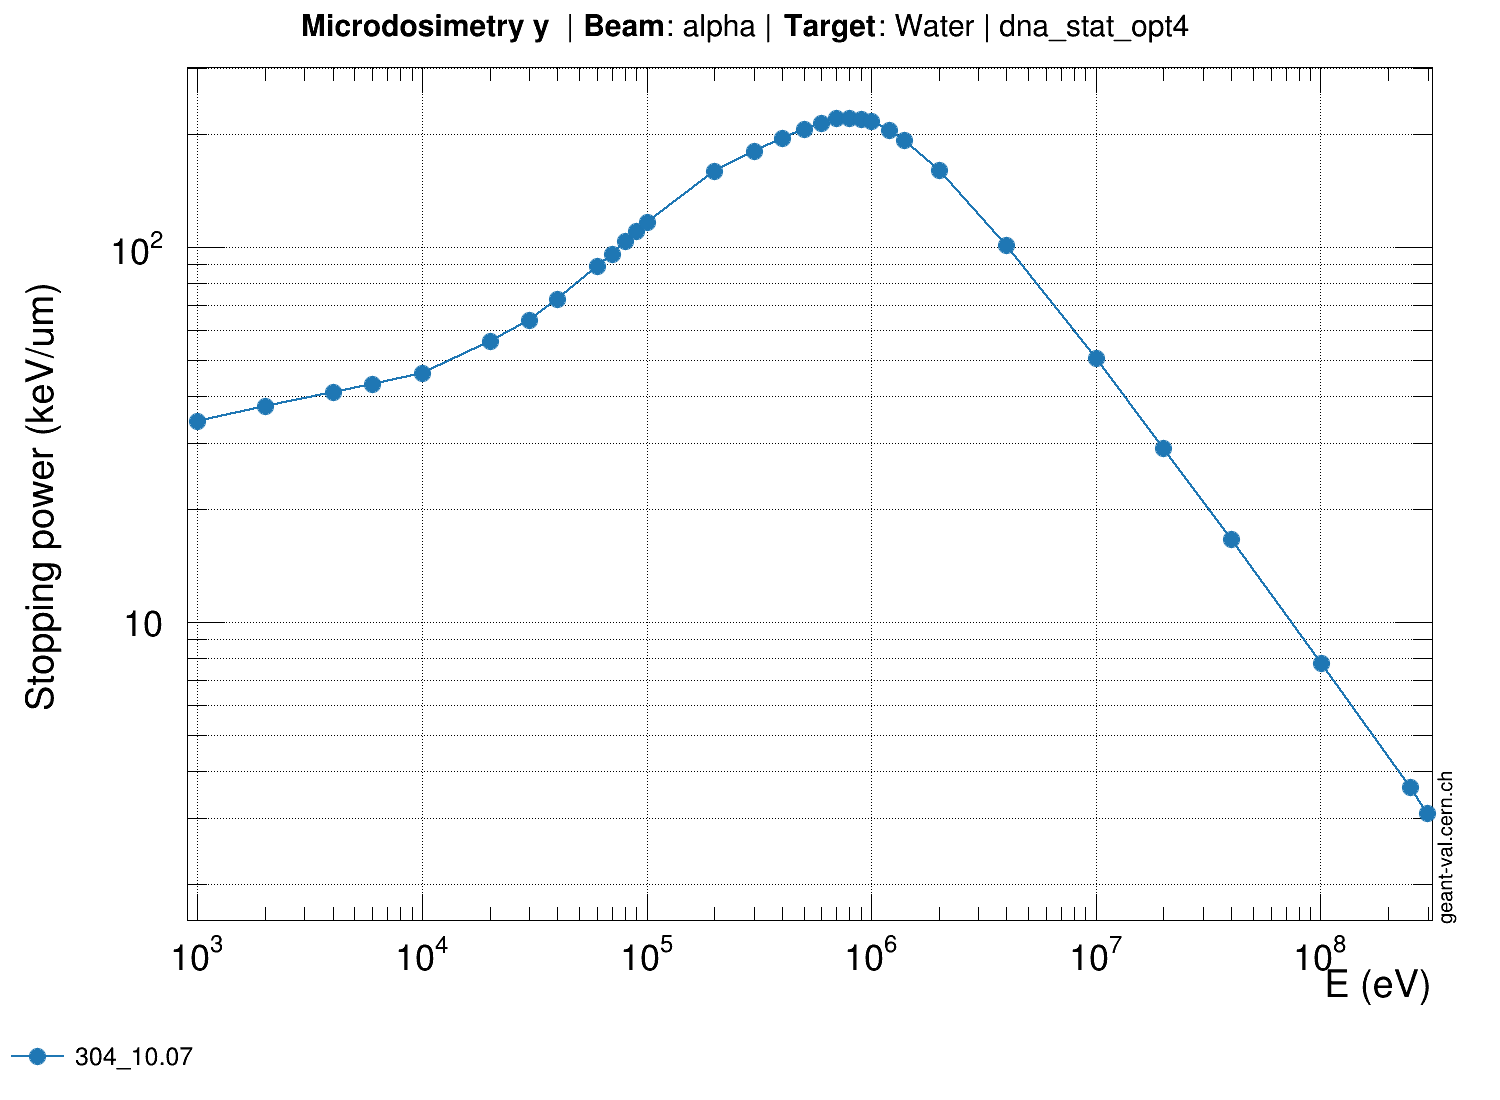
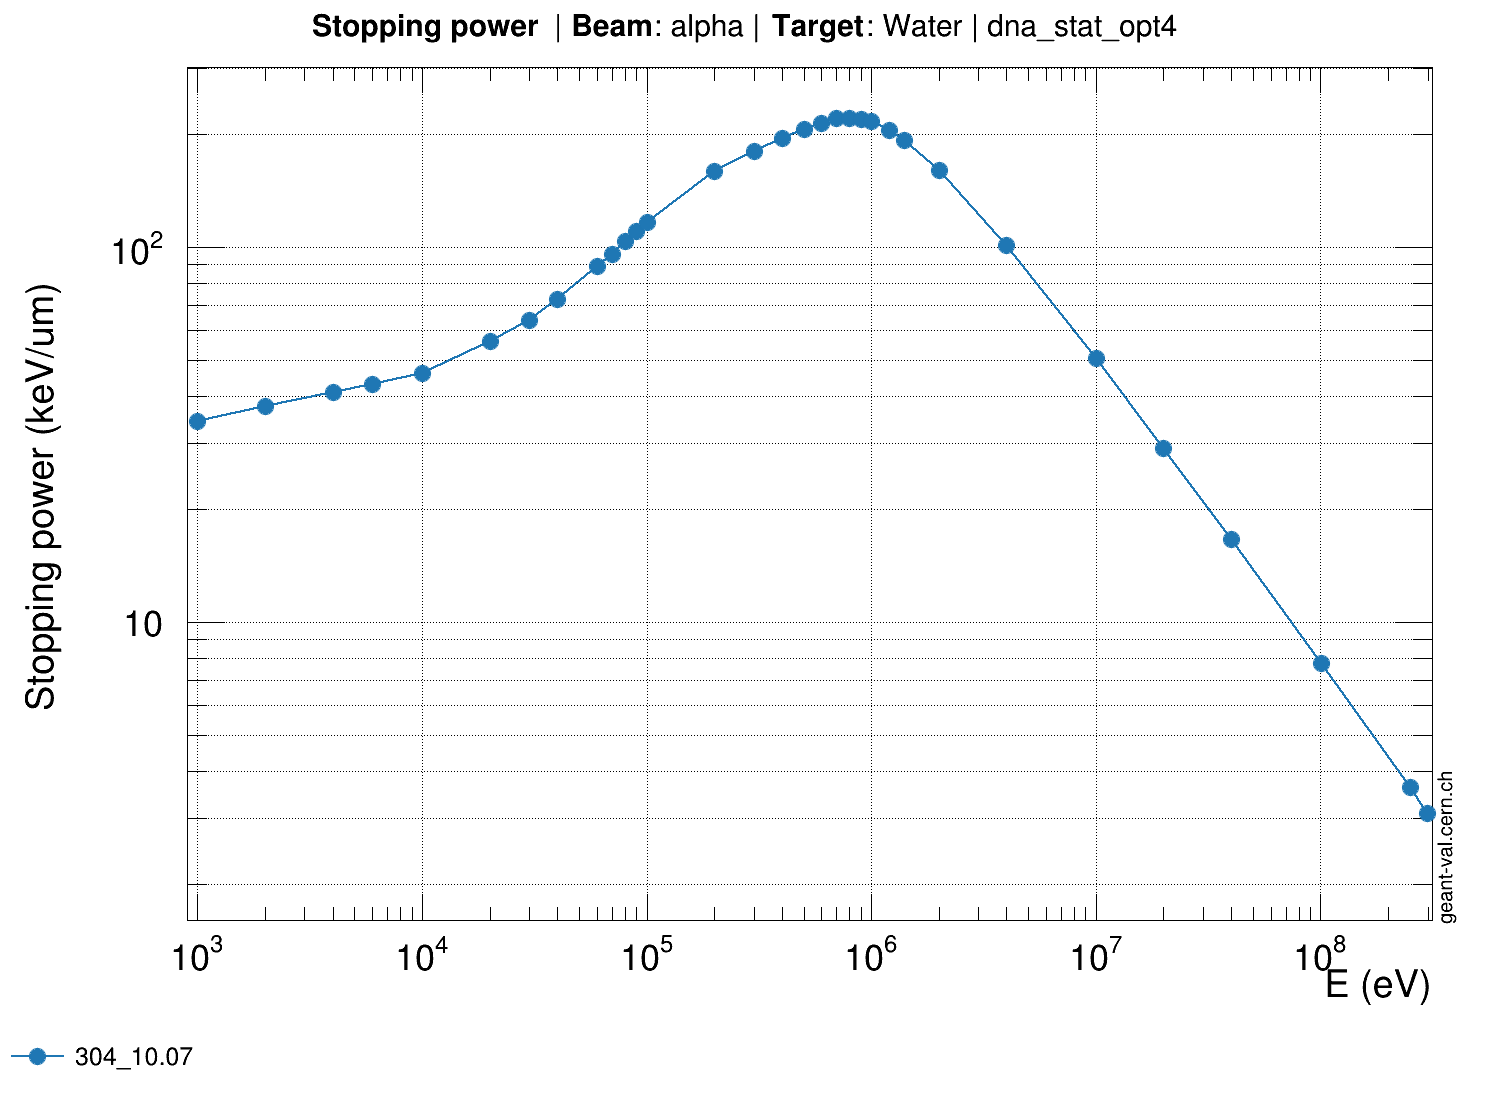
spower/alpha.conf/304_10.07 : lun. mars 27 11:52:57 CEST 2023

Changed region(s): [[0.184, 0.0, 0.7973, 0.0618]]

diff --git a/assets/OUTPUTJSON/geant4/304_10.07/x86_64/spower/alpha.conf.c b/assets/OUTPUTJSON/geant4/304_10.07/x86_64/spower/alpha.conf.c
@@ -286,3 +286,147 @@ double gvp_id-1_yerrors[32] = {
   0,
   0
 };
+// Tool:               GEANT4
+// Version:            304_10.07
+// Model:              dna_stat_opt4
+// Observable:         stopping power
+// Target:             Water
+// Beam Particle:      alpha
+// Secondary Particle: None
+
+double gvp_id-1_x[32] = {
+  1000,
+  2000,
+  4000,
+  6000,
+  10000,
+  20000,
+  30000,
+  40000,
+  60000,
+  70000,
+  80000,
+  90000,
+  100000,
+  200000,
+  300000,
+  400000,
+  500000,
+  600000,
+  700000,
+  800000,
+  900000,
+  1e+06,
+  1.2e+06,
+  1.4e+06,
+  2e+06,
+  4e+06,
+  1e+07,
+  2e+07,
+  4e+07,
+  1.01e+08,
+  2.5e+08,
+  2.99e+08
+};
+double gvp_id-1_y[32] = {
+  34.4107,
+  37.6174,
+  40.975,
+  43.1359,
+  46.1481,
+  55.9598,
+  63.9211,
+  72.4386,
+  88.8021,
+  95.6552,
+  103.792,
+  110.48,
+  116.535,
+  159.535,
+  180.635,
+  195.389,
+  206.578,
+  214.307,
+  220.243,
+  220.589,
+  219.859,
+  216.731,
+  205.215,
+  193.187,
+  160.177,
+  100.885,
+  50.4874,
+  29.1298,
+  16.6638,
+  7.76518,
+  3.62075,
+  3.08867
+};
+double gvp_id-1_xerrors[32] = {
+  0,
+  0,
+  0,
+  0,
+  0,
+  0,
+  0,
+  0,
+  0,
+  0,
+  0,
+  0,
+  0,
+  0,
+  0,
+  0,
+  0,
+  0,
+  0,
+  0,
+  0,
+  0,
+  0,
+  0,
+  0,
+  0,
+  0,
+  0,
+  0,
+  0,
+  0,
+  0
+};
+double gvp_id-1_yerrors[32] = {
+  0,
+  0,
+  0,
+  0,
+  0,
+  0,
+  0,
+  0,
+  0,
+  0,
+  0,
+  0,
+  0,
+  0,
+  0,
+  0,
+  0,
+  0,
+  0,
+  0,
+  0,
+  0,
+  0,
+  0,
+  0,
+  0,
+  0,
+  0,
+  0,
+  0,
+  0,
+  0
+};
